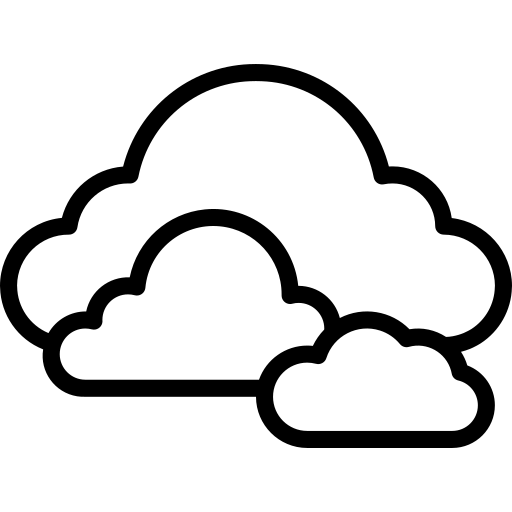
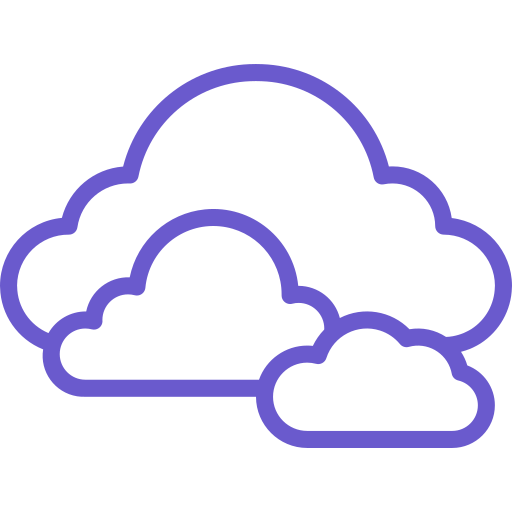
styles

Changed region(s): [[0.0, 0.125, 1.0, 0.875]]

diff --git a/style.css b/style.css
@@ -15,7 +15,7 @@ body {
     max-width: 100%;
     display: flex;
     flex-direction: column;
-    background-color: #ccc;
+    background-color: #6a5acd;
 }
 
 header {
@@ -25,7 +25,8 @@ header {
     align-items: center;
     margin-bottom: 1rem;
     padding: 1rem 2rem;
-    background-color: #333;
+    background-color: #fff;
+    box-shadow: 1px 1px 2px 1px rgba(0, 0, 0, 0.5);
 }
 
 header input,
@@ -33,26 +34,31 @@ header button {
     height: 2.5rem;
     font-size: 1rem;
     border-radius: 5px;
-    border: none;
     outline: none;
     padding: 0.5rem;
 }
 
+header input {
+    border: 3px solid #6a5acd;
+}
+
 .btn {
     padding: 0.5rem 0.75rem;
-    transition: all 0.3s ease;
+    color: #6a5acd;
     font-weight: bold;
+    border: none;
+    transition: all 0.3s ease;
 }
 
 .btn:hover {
-    background-color: slateblue;
+    background-color: #6a5acd;
     color: #fff;
     transform: scale(0.98);
 }
 
 header h1 {
     font-size: 3rem;
-    color: #fff;
+    color: #6a5acd;
 }
 
 .container {
@@ -150,8 +156,9 @@ header h1 {
     font-weight: bold;
 }
 
-.location div:nth-child(1) {
-    padding: 0.5rem 0.75rem;
+.location div {
+    padding: 0.5rem 1rem;
+    color: #6a5acd;
     background-color: #fff;
     border-radius: 50px;
 }
@@ -165,6 +172,7 @@ header h1 {
     align-items: center;
     background-color: #fff;
     border-radius: 5px;
+    box-shadow: 1px 1px 2px 1px rgba(0, 0, 0, 0.5);
 }
 
 .weather-container {
@@ -203,11 +211,11 @@ header h1 {
 
 .current-temp {
     margin-bottom: 1rem;
-    padding: 1.5rem 1rem;
+    padding: 1.5rem;
     border-radius: 50%;
     font-size: 3rem;
     font-weight: 700;
-    background-color: #333;
+    background-color: #6a5acd;
     color: #fff;
 }
 
@@ -224,7 +232,7 @@ header h1 {
 }
 
 .secondary-details div div {
-    background-color: #333;
+    background-color: #6a5acd;
     color: #fff;
 }
 
@@ -243,6 +251,7 @@ header h1 {
     padding: 1.5rem 0;
     border-radius: 5px;
     background-color: #fff;
+    box-shadow: 1px 1px 2px 1px rgba(0, 0, 0, 0.5);
 }
 
 .future-day .date {
@@ -260,7 +269,7 @@ header h1 {
 
 .future-day .current-temp {
     font-size: 2rem;
-    padding: 1rem 0.75rem;
+    padding: 1rem;
 }
 
 @media (max-width: 800px) {

diff --git a/app.js b/app.js
@@ -1,6 +1,6 @@
 const container = document.querySelector('#container');
 const formEl = document.querySelector('form.weatherdata-form');
-const API_KEY = 'OPENWEATHERMAP API KEY';
+const API_KEY = 'INSERT OPENWEATHERMAP API KEY HERE';
 
 async function fetchWeather(e) {
     const form = e.target;
@@ -151,6 +151,3 @@ filter = (data) => {
     </div>
     `;
 };
-
-// TODO
-// 1. Update icon colors
